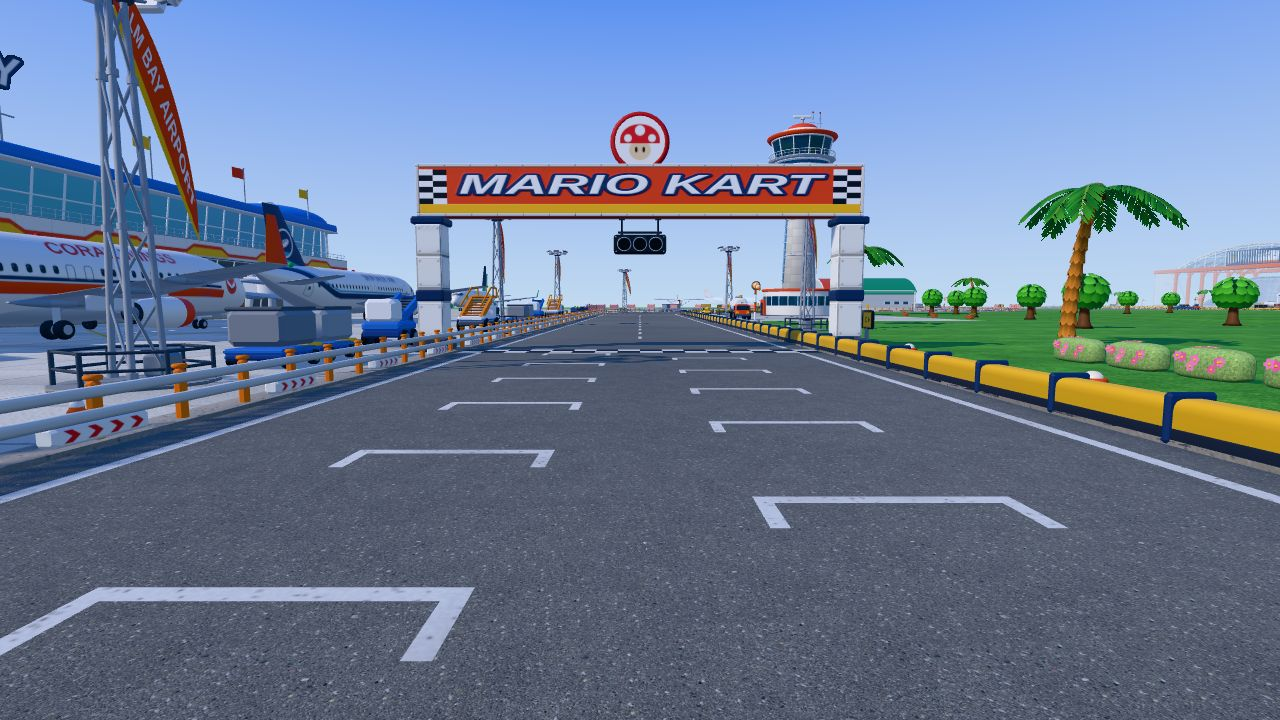
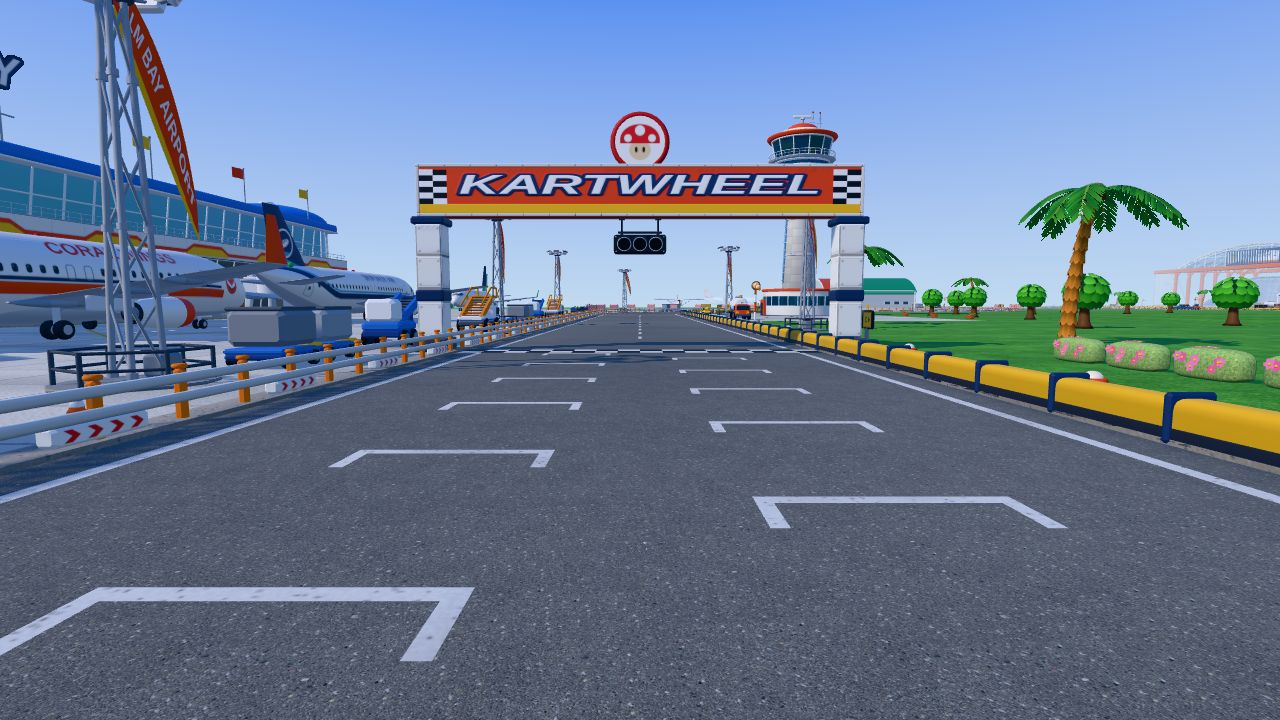
m11 r: course previews redrawn with KARTWHEEL on the gate, their hashes in the manifest
Claude-Session: https://claude.ai/code/session_01Y1rZk3aP8HkfyiXSt9rdfs

Changed region(s): [[0.3438, 0.2139, 0.6562, 0.275]]

diff --git a/docs/queue.md b/docs/queue.md
@@ -8,9 +8,9 @@ One milestone (m11), built as tasks by `implementer` agents (`.claude/skills/mil
 |---|---|---|---|---|
 | P | Protocol constants (main session) | - | - | merged |
 | A | Name clean-up: Kartwheel, no Mario Kart references | sonnet | P | merged |
-| B | Phone: new layouts, double tap, colour, Leave | opus | P | building |
+| B | Phone: new layouts, double tap, colour, Leave | opus | P | reviewing (f5e0426) |
 | C | Host: colour picking, left-handed, views | sonnet | P | merged |
-| R | Course previews again, manifest (main session) | - | A | building |
+| R | Course previews again, manifest (main session) | - | A | merged |
 | D | Browser test file for m11 | sonnet | A, B, C merged, suite run | queued |
 
 ## Rules for every task
